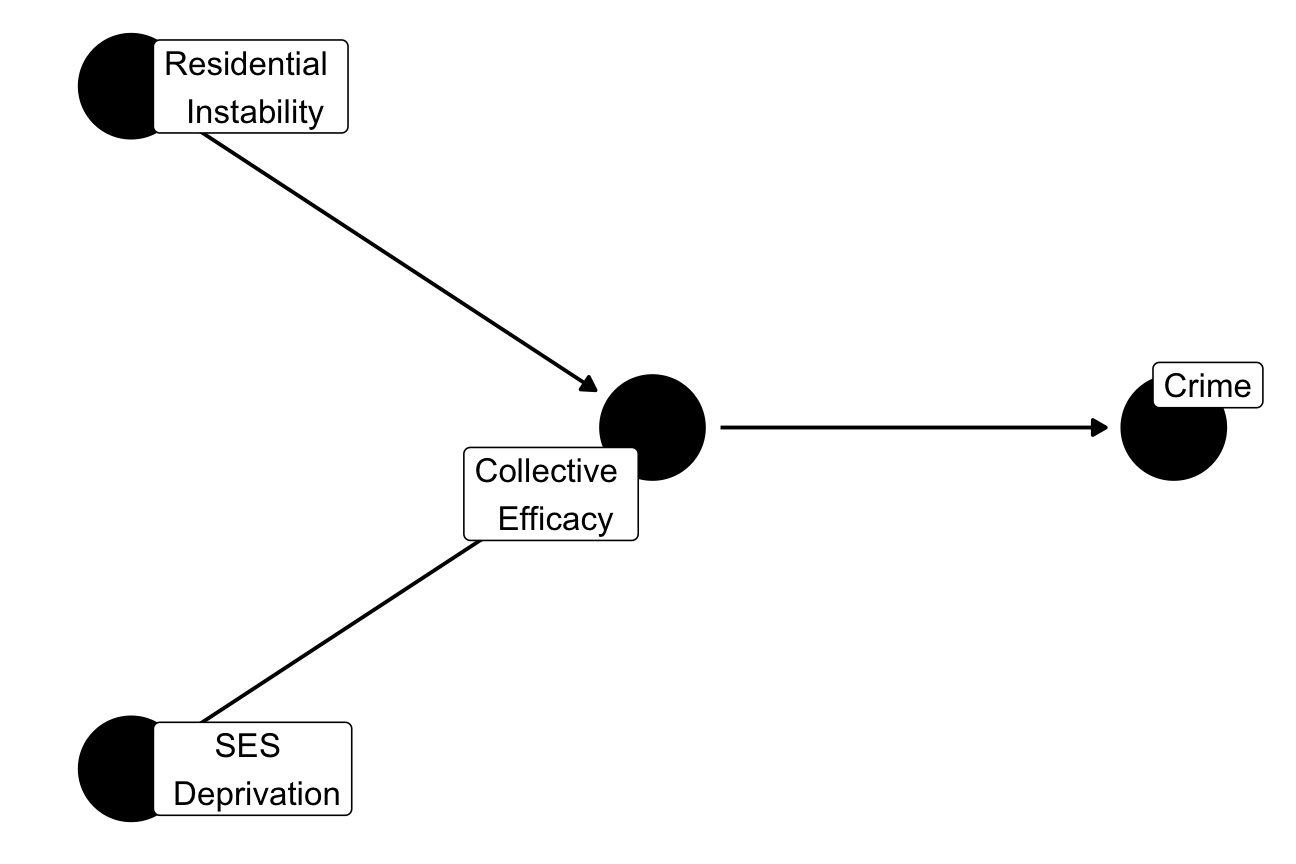
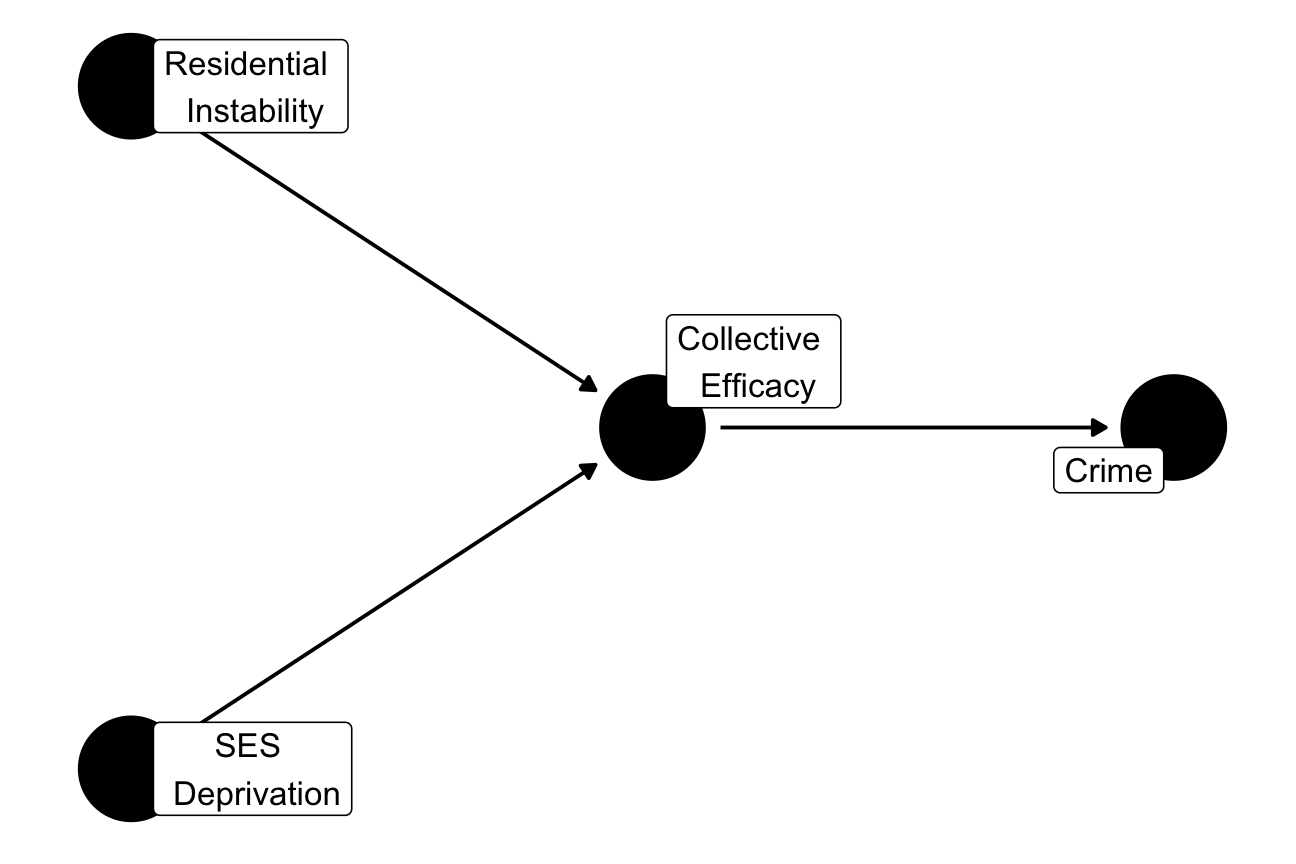
Session neighborhood effects

diff --git a/static/Sessions/8-Neighborhood-Effects/8-Nbh-effects.html b/static/Sessions/8-Neighborhood-Effects/8-Nbh-effects.html
@@ -4,7 +4,7 @@
     <title>Neighborhood effects</title>
     <meta charset="utf-8" />
     <meta name="author" content="Merlin Schaeffer  Department of Sociology" />
-    <meta name="date" content="2022-09-12" />
+    <meta name="date" content="2022-09-27" />
     <script src="libs/header-attrs/header-attrs.js"></script>
     <link href="libs/tile-view/tile-view.css" rel="stylesheet" />
     <script src="libs/tile-view/tile-view.js"></script>
@@ -35,7 +35,7 @@ class: center, middle, inverse, title-slide
 ### Merlin Schaeffer<br> Department of Sociology
 ]
 .date[
-### 2022-09-12
+### 2022-09-27
 ]
 
 ---
@@ -43,24 +43,18 @@ class: center, middle, inverse, title-slide
 
 
 class: clear
-# .font60[What is the research question of Sampson, Raudenbush, and Earls (1997)?]
+# .font70[Why are crime rates high in deprived neighborhoods?]
 
 &lt;img src="8-Nbh-effects_files/figure-html/unnamed-chunk-1-1.png" width="70%" style="display: block; margin: auto;" /&gt;
 
 ---
-layout: true
 # Collective Efficacy
 
 .right-column[
 &lt;img src="8-Nbh-effects_files/figure-html/unnamed-chunk-2-1.png" width="100%" style="display: block; margin: auto;" /&gt;
 ]
 
----
-
----
 .left-column[
-Research question: Does a lack of Collective Efficacy explain why unstable and deprived areas have higher crime rates?
-
 .content-box-blue[
 Collective Efficacy =
 - Informal social control:
@@ -84,30 +78,12 @@ class: clear
 versus 
 
 Context Effects]]
-
-.content-box-green[
-What distinguishes a context from a composition effect?
-]
 ]
 
 .right-column[
-<div id="htmlwidget-e5d0fe5bfd904aff0624" style="width:50%;height:504px;" class="plotly html-widget"></div>
-<script type="application/json" data-for="htmlwidget-e5d0fe5bfd904aff0624">{"x":{"visdat":{"27f92aeb144c":["function () ","plotlyVisDat"],"27f92f819f97":["function () ","data"],"27f967148ade":["function () ","data"]},"cur_data":"27f967148ade","attrs":{"27f92f819f97":{"x":{},"y":{},"frame":{},"alpha_stroke":1,"sizes":[10,100],"spans":[1,20],"type":"scatter","mode":"markers","color":{},"showlegend":false,"marker":{"opacity":0.7,"size":12,"showlegend":false,"type":"scatter","mode":"markers","colorscale":[["0","#7570b3"],[1,"#1b9e77"]]},"inherit":true},"27f967148ade":{"x":{},"y":{},"frame":{},"alpha_stroke":1,"sizes":[10,100],"spans":[1,20],"text":"Y.","type":"scatter","mode":"text","showlegend":false,"marker":{"opacity":0.4,"size":25,"showlegend":false,"color":"#d95f02"},"inherit":true}},"layout":{"width":800,"height":600,"margin":{"b":50,"l":110,"t":50,"r":50,"pad":14},"xaxis":{"domain":[0,1],"automargin":true,"showlegend":false,"title":"","zeroline":false,"showline":false,"range":[0,4],"ticktext":["Neighborhood 1","Neighborhood 2"],"tickvals":[1,3]},"yaxis":{"domain":[0,1],"automargin":true,"title":"Violent crime","ticktext":["Regularly","Sometimes","Rarely","Never"],"tickvals":[1,2,3,4],"range":[0,5],"tickmode":"array"},"hovermode":"closest","showlegend":false,"sliders":[{"currentvalue":{"prefix":"f: ","xanchor":"right","font":{"size":16,"color":"rgba(204,204,204,1)"}},"steps":[{"method":"animate","args":[["1"],{"transition":{"duration":2500,"easing":"elastic"},"frame":{"duration":2500,"redraw":false},"mode":"immediate"}],"label":"1","value":"1"},{"method":"animate","args":[["2"],{"transition":{"duration":2500,"easing":"elastic"},"frame":{"duration":2500,"redraw":false},"mode":"immediate"}],"label":"2","value":"2"},{"method":"animate","args":[["3"],{"transition":{"duration":2500,"easing":"elastic"},"frame":{"duration":2500,"redraw":false},"mode":"immediate"}],"label":"3","value":"3"},{"method":"animate","args":[["4"],{"transition":{"duration":2500,"easing":"elastic"},"frame":{"duration":2500,"redraw":false},"mode":"immediate"}],"label":"4","value":"4"}],"visible":true,"pad":{"t":40}}],"updatemenus":[{"type":"buttons","direction":"right","showactive":false,"y":0,"x":0,"yanchor":"top","xanchor":"right","pad":{"t":60,"r":5},"buttons":[{"label":"Play","method":"animate","args":[null,{"fromcurrent":true,"mode":"immediate","transition":{"duration":2500,"easing":"elastic"},"frame":{"duration":2500,"redraw":false}}]}]}]},"source":"A","config":{"modeBarButtonsToAdd":["hoverclosest","hovercompare"],"showSendToCloud":false},"data":[{"x":[1.03736703872467,1.26967110026135,0.893694237816937,0.855642527760211,0.949206291864296,0.991561579302422,0.990716089735659,0.893397787674812,0.921530453515081,0.809581897697967,1.21325285144489,1.17535706853017,0.836455458900621,1.00244831195993,0.820912370546618,1.01265502953909,0.638266863244202,0.865494528665082,0.958488518217308,1.17104240045505],"y":[0.916379036109823,0.703969631557032,0.722852796036957,0.53752821471865,0.953145089501039,0.797559352031066,0.711860263798452,0.871909024298464,0.723229877670557,0.826578332604983,2.22323851045785,2.18151843342787,2.4078544628636,2.17771179375986,2.36327918178319,2.28272545713974,2.13600605974317,2.1898542047548,2.11825231877282,2.3157231795379],"frame":"1","type":"scatter","mode":"markers","showlegend":false,"marker":{"colorbar":{"title":"work","ticklen":2},"cmin":1,"cmax":2,"colorscale":[["0","#7570b3"],[1,"#1b9e77"]],"showscale":false,"color":[1,1,1,1,1,1,1,1,1,1,2,2,2,2,2,2,2,2,2,2],"opacity":0.7,"size":12,"showlegend":false,"type":"scatter","mode":"markers","line":{"colorbar":{"title":"","ticklen":2},"cmin":1,"cmax":2,"colorscale":[["0","rgba(68,1,84,1)"],["0.0416666666666667","rgba(70,19,97,1)"],["0.0833333333333333","rgba(72,32,111,1)"],["0.125","rgba(71,45,122,1)"],["0.166666666666667","rgba(68,58,128,1)"],["0.208333333333333","rgba(64,70,135,1)"],["0.25","rgba(60,82,138,1)"],["0.291666666666667","rgba(56,93,140,1)"],["0.333333333333333","rgba(49,104,142,1)"],["0.375","rgba(46,114,142,1)"],["0.416666666666667","rgba(42,123,142,1)"],["0.458333333333333","rgba(38,133,141,1)"],["0.5","rgba(37,144,140,1)"],["0.541666666666667","rgba(33,154,138,1)"],["0.583333333333333","rgba(39,164,133,1)"],["0.625","rgba(47,174,127,1)"],["0.666666666666667","rgba(53,183,121,1)"],["0.708333333333333","rgba(79,191,110,1)"],["0.75","rgba(98,199,98,1)"],["0.791666666666667","rgba(119,207,85,1)"],["0.833333333333333","rgba(147,214,70,1)"],["0.875","rgba(172,220,52,1)"],["0.916666666666667","rgba(199,225,42,1)"],["0.958333333333333","rgba(226,228,40,1)"],["1","rgba(253,231,37,1)"]],"showscale":false,"color":[1,1,1,1,1,1,1,1,1,1,2,2,2,2,2,2,2,2,2,2]}},"xaxis":"x","yaxis":"y","visible":true},{"x":[1],"y":[1.50805876102839],"frame":"1","text":"Y.","type":"scatter","mode":"text+markers","showlegend":false,"marker":{"color":"#d95f02","opacity":0.4,"size":25,"showlegend":false,"line":{"color":"rgba(255,127,14,1)"},"showscale":false},"error_y":{"color":"rgba(255,127,14,1)"},"error_x":{"color":"rgba(255,127,14,1)"},"line":{"color":"rgba(255,127,14,1)"},"xaxis":"x","yaxis":"y","visible":true},{"x":[0.638266863244202,3.24793485091484],"y":[0.53752821471865,4.25038346004904],"type":"scatter","mode":"markers","opacity":0,"hoverinfo":"none","showlegend":false,"marker":{"colorbar":{"title":"work","ticklen":2},"cmin":1,"cmax":2,"colorscale":[["0","rgba(68,1,84,1)"],["0.0416666666666667","rgba(70,19,97,1)"],["0.0833333333333333","rgba(72,32,111,1)"],["0.125","rgba(71,45,122,1)"],["0.166666666666667","rgba(68,58,128,1)"],["0.208333333333333","rgba(64,70,135,1)"],["0.25","rgba(60,82,138,1)"],["0.291666666666667","rgba(56,93,140,1)"],["0.333333333333333","rgba(49,104,142,1)"],["0.375","rgba(46,114,142,1)"],["0.416666666666667","rgba(42,123,142,1)"],["0.458333333333333","rgba(38,133,141,1)"],["0.5","rgba(37,144,140,1)"],["0.541666666666667","rgba(33,154,138,1)"],["0.583333333333333","rgba(39,164,133,1)"],["0.625","rgba(47,174,127,1)"],["0.666666666666667","rgba(53,183,121,1)"],["0.708333333333333","rgba(79,191,110,1)"],["0.75","rgba(98,199,98,1)"],["0.791666666666667","rgba(119,207,85,1)"],["0.833333333333333","rgba(147,214,70,1)"],["0.875","rgba(172,220,52,1)"],["0.916666666666667","rgba(199,225,42,1)"],["0.958333333333333","rgba(226,228,40,1)"],["1","rgba(253,231,37,1)"]],"showscale":false,"color":[1,2],"line":{"color":"rgba(44,160,44,1)"}},"xaxis":"x","yaxis":"y","frame":null}],"highlight":{"on":"plotly_click","persistent":false,"dynamic":false,"selectize":false,"opacityDim":0.2,"selected":{"opacity":1},"debounce":0},"frames":[{"name":"1","data":[{"x":[1.03736703872467,1.26967110026135,0.893694237816937,0.855642527760211,0.949206291864296,0.991561579302422,0.990716089735659,0.893397787674812,0.921530453515081,0.809581897697967,1.21325285144489,1.17535706853017,0.836455458900621,1.00244831195993,0.820912370546618,1.01265502953909,0.638266863244202,0.865494528665082,0.958488518217308,1.17104240045505],"y":[0.916379036109823,0.703969631557032,0.722852796036957,0.53752821471865,0.953145089501039,0.797559352031066,0.711860263798452,0.871909024298464,0.723229877670557,0.826578332604983,2.22323851045785,2.18151843342787,2.4078544628636,2.17771179375986,2.36327918178319,2.28272545713974,2.13600605974317,2.1898542047548,2.11825231877282,2.3157231795379],"frame":"1","type":"scatter","mode":"markers","showlegend":false,"marker":{"colorbar":{"title":"work","ticklen":2},"cmin":1,"cmax":2,"colorscale":[["0","#7570b3"],[1,"#1b9e77"]],"showscale":false,"color":[1,1,1,1,1,1,1,1,1,1,2,2,2,2,2,2,2,2,2,2],"opacity":0.7,"size":12,"showlegend":false,"type":"scatter","mode":"markers","line":{"colorbar":{"title":"","ticklen":2},"cmin":1,"cmax":2,"colorscale":[["0","rgba(68,1,84,1)"],["0.0416666666666667","rgba(70,19,97,1)"],["0.0833333333333333","rgba(72,32,111,1)"],["0.125","rgba(71,45,122,1)"],["0.166666666666667","rgba(68,58,128,1)"],["0.208333333333333","rgba(64,70,135,1)"],["0.25","rgba(60,82,138,1)"],["0.291666666666667","rgba(56,93,140,1)"],["0.333333333333333","rgba(49,104,142,1)"],["0.375","rgba(46,114,142,1)"],["0.416666666666667","rgba(42,123,142,1)"],["0.458333333333333","rgba(38,133,141,1)"],["0.5","rgba(37,144,140,1)"],["0.541666666666667","rgba(33,154,138,1)"],["0.583333333333333","rgba(39,164,133,1)"],["0.625","rgba(47,174,127,1)"],["0.666666666666667","rgba(53,183,121,1)"],["0.708333333333333","rgba(79,191,110,1)"],["0.75","rgba(98,199,98,1)"],["0.791666666666667","rgba(119,207,85,1)"],["0.833333333333333","rgba(147,214,70,1)"],["0.875","rgba(172,220,52,1)"],["0.916666666666667","rgba(199,225,42,1)"],["0.958333333333333","rgba(226,228,40,1)"],["1","rgba(253,231,37,1)"]],"showscale":false,"color":[1,1,1,1,1,1,1,1,1,1,2,2,2,2,2,2,2,2,2,2]}},"xaxis":"x","yaxis":"y","visible":true},{"x":[1],"y":[1.50805876102839],"frame":"1","text":"Y.","type":"scatter","mode":"text+markers","showlegend":false,"marker":{"color":"#d95f02","opacity":0.4,"size":25,"showlegend":false,"line":{"color":"rgba(255,127,14,1)"}},"error_y":{"color":"rgba(255,127,14,1)"},"error_x":{"color":"rgba(255,127,14,1)"},"line":{"color":"rgba(255,127,14,1)"},"xaxis":"x","yaxis":"y","visible":true}],"traces":[0,1]},{"name":"2","data":[{"x":[1.03736703872467,1.26967110026135,0.893694237816937,0.855642527760211,0.949206291864296,0.991561579302422,0.990716089735659,0.893397787674812,0.921530453515081,0.809581897697967,1.21325285144489,1.17535706853017,0.836455458900621,1.00244831195993,0.820912370546618,1.01265502953909,0.638266863244202,0.865494528665082,0.958488518217308,1.17104240045505],"y":[0.916379036109823,0.703969631557032,0.722852796036957,0.53752821471865,2.35314508950104,2.19755935203107,2.11186026379845,2.27190902429846,2.12322987767056,2.22657833260498,2.22323851045785,2.18151843342787,2.4078544628636,2.17771179375986,2.36327918178319,2.28272545713974,2.13600605974317,2.1898542047548,2.11825231877282,2.3157231795379],"frame":"2","type":"scatter","mode":"markers","showlegend":false,"marker":{"colorbar":{"title":"work","ticklen":2},"cmin":1,"cmax":2,"colorscale":[["0","#7570b3"],[1,"#1b9e77"]],"showscale":false,"color":[1,1,1,1,2,2,2,2,2,2,2,2,2,2,2,2,2,2,2,2],"opacity":0.7,"size":12,"showlegend":false,"type":"scatter","mode":"markers","line":{"colorbar":{"title":"","ticklen":2},"cmin":1,"cmax":2,"colorscale":[["0","rgba(68,1,84,1)"],["0.0416666666666667","rgba(70,19,97,1)"],["0.0833333333333333","rgba(72,32,111,1)"],["0.125","rgba(71,45,122,1)"],["0.166666666666667","rgba(68,58,128,1)"],["0.208333333333333","rgba(64,70,135,1)"],["0.25","rgba(60,82,138,1)"],["0.291666666666667","rgba(56,93,140,1)"],["0.333333333333333","rgba(49,104,142,1)"],["0.375","rgba(46,114,142,1)"],["0.416666666666667","rgba(42,123,142,1)"],["0.458333333333333","rgba(38,133,141,1)"],["0.5","rgba(37,144,140,1)"],["0.541666666666667","rgba(33,154,138,1)"],["0.583333333333333","rgba(39,164,133,1)"],["0.625","rgba(47,174,127,1)"],["0.666666666666667","rgba(53,183,121,1)"],["0.708333333333333","rgba(79,191,110,1)"],["0.75","rgba(98,199,98,1)"],["0.791666666666667","rgba(119,207,85,1)"],["0.833333333333333","rgba(147,214,70,1)"],["0.875","rgba(172,220,52,1)"],["0.916666666666667","rgba(199,225,42,1)"],["0.958333333333333","rgba(226,228,40,1)"],["1","rgba(253,231,37,1)"]],"showscale":false,"color":[1,1,1,1,2,2,2,2,2,2,2,2,2,2,2,2,2,2,2,2]}},"xaxis":"x","yaxis":"y","visible":true},{"x":[1],"y":[1.92805876102839],"frame":"2","text":"Y.","type":"scatter","mode":"text+markers","showlegend":false,"marker":{"color":"#d95f02","opacity":0.4,"size":25,"showlegend":false,"line":{"color":"rgba(255,127,14,1)"}},"error_y":{"color":"rgba(255,127,14,1)"},"error_x":{"color":"rgba(255,127,14,1)"},"line":{"color":"rgba(255,127,14,1)"},"xaxis":"x","yaxis":"y","visible":true}],"traces":[0,1]},{"name":"3","data":[{"x":[1.03736703872467,1.26967110026135,0.893694237816937,0.855642527760211,0.949206291864296,0.991561579302422,0.990716089735659,0.893397787674812,0.921530453515081,0.809581897697967,1.21325285144489,1.17535706853017,0.836455458900621,1.00244831195993,0.820912370546618,1.01265502953909,0.638266863244202,0.865494528665082,0.958488518217308,1.17104240045505,3.06823257286448,2.9298575069774,3.24793485091484,3.00152039750711,2.87363789142496,2.95244700378619,2.70605423820583,2.71767938318065,3.15236948597474,3.07760912315799,3.1704117225552,3.15981860754573,2.96364567853628,3.10095262959947,3.13411097689352,2.98157460584621,2.738668215747,2.9771898417197,3.12501208107472,3.04821319045656],"y":[0.916379036109823,0.703969631557032,0.722852796036957,0.53752821471865,2.35314508950104,2.19755935203107,2.11186026379845,2.27190902429846,2.12322987767056,2.22657833260498,2.22323851045785,2.18151843342787,2.4078544628636,2.17771179375986,2.36327918178319,2.28272545713974,2.13600605974317,2.1898542047548,2.11825231877282,2.3157231795379,2.74436765600553,2.6312340840588,2.47249940318266,2.35379929727019,4.04679508947537,3.84982332571895,3.90007618320083,4.12434130696934,3.73869196854703,4.01062009083368,4.0837522832023,3.80640432771016,4.20904111732465,3.92790409779416,4.22406463939938,4.25038346004904,3.76462223924413,4.02830470180983,3.88386249918308,4.05715547241195],"frame":"3","type":"scatter","mode":"markers","showlegend":false,"marker":{"colorbar":{"title":"work","ticklen":2},"cmin":1,"cmax":2,"colorscale":[["0","#7570b3"],[1,"#1b9e77"]],"showscale":false,"color":[1,1,1,1,2,2,2,2,2,2,2,2,2,2,2,2,2,2,2,2,1,1,1,1,2,2,2,2,2,2,2,2,2,2,2,2,2,2,2,2],"opacity":0.7,"size":12,"showlegend":false,"type":"scatter","mode":"markers","line":{"colorbar":{"title":"","ticklen":2},"cmin":1,"cmax":2,"colorscale":[["0","rgba(68,1,84,1)"],["0.0416666666666667","rgba(70,19,97,1)"],["0.0833333333333333","rgba(72,32,111,1)"],["0.125","rgba(71,45,122,1)"],["0.166666666666667","rgba(68,58,128,1)"],["0.208333333333333","rgba(64,70,135,1)"],["0.25","rgba(60,82,138,1)"],["0.291666666666667","rgba(56,93,140,1)"],["0.333333333333333","rgba(49,104,142,1)"],["0.375","rgba(46,114,142,1)"],["0.416666666666667","rgba(42,123,142,1)"],["0.458333333333333","rgba(38,133,141,1)"],["0.5","rgba(37,144,140,1)"],["0.541666666666667","rgba(33,154,138,1)"],["0.583333333333333","rgba(39,164,133,1)"],["0.625","rgba(47,174,127,1)"],["0.666666666666667","rgba(53,183,121,1)"],["0.708333333333333","rgba(79,191,110,1)"],["0.75","rgba(98,199,98,1)"],["0.791666666666667","rgba(119,207,85,1)"],["0.833333333333333","rgba(147,214,70,1)"],["0.875","rgba(172,220,52,1)"],["0.916666666666667","rgba(199,225,42,1)"],["0.958333333333333","rgba(226,228,40,1)"],["1","rgba(253,231,37,1)"]],"showscale":false,"color":[1,1,1,1,2,2,2,2,2,2,2,2,2,2,2,2,2,2,2,2,1,1,1,1,2,2,2,2,2,2,2,2,2,2,2,2,2,2,2,2]}},"xaxis":"x","yaxis":"y","visible":true},{"x":[1,3],"y":[1.92805876102839,3.70538716216955],"frame":"3","text":["Y.","Y."],"type":"scatter","mode":"text+markers","showlegend":false,"marker":{"color":"#d95f02","opacity":0.4,"size":25,"showlegend":false,"line":{"color":"rgba(255,127,14,1)"}},"error_y":{"color":"rgba(255,127,14,1)"},"error_x":{"color":"rgba(255,127,14,1)"},"line":{"color":"rgba(255,127,14,1)"},"xaxis":"x","yaxis":"y","visible":true}],"traces":[0,1]},{"name":"4","data":[{"x":[1.03736703872467,1.26967110026135,0.893694237816937,0.855642527760211,0.949206291864296,0.991561579302422,0.990716089735659,0.893397787674812,0.921530453515081,0.809581897697967,1.21325285144489,1.17535706853017,0.836455458900621,1.00244831195993,0.820912370546618,1.01265502953909,0.638266863244202,0.865494528665082,0.958488518217308,1.17104240045505,3.06823257286448,2.9298575069774,3.24793485091484,3.00152039750711,2.87363789142496,2.95244700378619,2.70605423820583,2.71767938318065,3.15236948597474,3.07760912315799,3.1704117225552,3.15981860754573,2.96364567853628,3.10095262959947,3.13411097689352,2.98157460584621,2.738668215747,2.9771898417197,3.12501208107472,3.04821319045656],"y":[0.916379036109823,0.703969631557032,0.722852796036957,0.53752821471865,0.953145089501039,0.797559352031066,0.711860263798452,0.871909024298464,0.723229877670557,0.826578332604983,2.22323851045785,2.18151843342787,2.4078544628636,2.17771179375986,2.36327918178319,2.28272545713974,2.13600605974317,2.1898542047548,2.11825231877282,2.3157231795379,2.74436765600553,2.6312340840588,2.47249940318266,2.35379929727019,2.64679508947537,2.44982332571895,2.50007618320083,2.72434130696934,2.33869196854703,2.61062009083368,4.0837522832023,3.80640432771016,4.20904111732465,3.92790409779416,4.22406463939938,4.25038346004904,3.76462223924413,4.02830470180983,3.88386249918308,4.05715547241195],"frame":"4","type":"scatter","mode":"markers","showlegend":false,"marker":{"colorbar":{"title":"work","ticklen":2},"cmin":1,"cmax":2,"colorscale":[["0","#7570b3"],[1,"#1b9e77"]],"showscale":false,"color":[1,1,1,1,1,1,1,1,1,1,2,2,2,2,2,2,2,2,2,2,1,1,1,1,1,1,1,1,1,1,2,2,2,2,2,2,2,2,2,2],"opacity":0.7,"size":12,"showlegend":false,"type":"scatter","mode":"markers","line":{"colorbar":{"title":"","ticklen":2},"cmin":1,"cmax":2,"colorscale":[["0","rgba(68,1,84,1)"],["0.0416666666666667","rgba(70,19,97,1)"],["0.0833333333333333","rgba(72,32,111,1)"],["0.125","rgba(71,45,122,1)"],["0.166666666666667","rgba(68,58,128,1)"],["0.208333333333333","rgba(64,70,135,1)"],["0.25","rgba(60,82,138,1)"],["0.291666666666667","rgba(56,93,140,1)"],["0.333333333333333","rgba(49,104,142,1)"],["0.375","rgba(46,114,142,1)"],["0.416666666666667","rgba(42,123,142,1)"],["0.458333333333333","rgba(38,133,141,1)"],["0.5","rgba(37,144,140,1)"],["0.541666666666667","rgba(33,154,138,1)"],["0.583333333333333","rgba(39,164,133,1)"],["0.625","rgba(47,174,127,1)"],["0.666666666666667","rgba(53,183,121,1)"],["0.708333333333333","rgba(79,191,110,1)"],["0.75","rgba(98,199,98,1)"],["0.791666666666667","rgba(119,207,85,1)"],["0.833333333333333","rgba(147,214,70,1)"],["0.875","rgba(172,220,52,1)"],["0.916666666666667","rgba(199,225,42,1)"],["0.958333333333333","rgba(226,228,40,1)"],["1","rgba(253,231,37,1)"]],"showscale":false,"color":[1,1,1,1,1,1,1,1,1,1,2,2,2,2,2,2,2,2,2,2,1,1,1,1,1,1,1,1,1,1,2,2,2,2,2,2,2,2,2,2]}},"xaxis":"x","yaxis":"y","visible":true},{"x":[1,3],"y":[1.50805876102839,3.28538716216955],"frame":"4","text":["Y.","Y."],"type":"scatter","mode":"text+markers","showlegend":false,"marker":{"color":"#d95f02","opacity":0.4,"size":25,"showlegend":false,"line":{"color":"rgba(255,127,14,1)"}},"error_y":{"color":"rgba(255,127,14,1)"},"error_x":{"color":"rgba(255,127,14,1)"},"line":{"color":"rgba(255,127,14,1)"},"xaxis":"x","yaxis":"y","visible":true}],"traces":[0,1]}],"shinyEvents":["plotly_hover","plotly_click","plotly_selected","plotly_relayout","plotly_brushed","plotly_brushing","plotly_clickannotation","plotly_doubleclick","plotly_deselect","plotly_afterplot","plotly_sunburstclick"],"base_url":"https://plot.ly"},"evals":[],"jsHooks":[]}</script>
-]
-
----
-# Examples
-
-.push-left[
-.content-box-green[
-Consider Composition and Context Effects for the following hypotheses with your neighbor:
-- H1: The more elderly residents live in a neighborhood, the fewer house parties.
-- H2: The more house owners live in a neighborhood, the lower the crime rate.
-- H3: Come up with an exemplary hypothesis of your own.
-]]
-
-.push-right[
-&lt;img src="https://c.tenor.com/ZH8sBDd1cZwAAAAM/parrrrty-party.gif" width="100%" style="display: block; margin: auto;" /&gt;
+&lt;br&gt;
+<div id="htmlwidget-15982604415764b7e4e7" style="width:50%;height:504px;" class="plotly html-widget"></div>
+<script type="application/json" data-for="htmlwidget-15982604415764b7e4e7">{"x":{"visdat":{"7ae43e345fc":["function () ","plotlyVisDat"],"7ae7e07c635":["function () ","data"],"7ae30660237":["function () ","data"]},"cur_data":"7ae30660237","attrs":{"7ae7e07c635":{"x":{},"y":{},"frame":{},"alpha_stroke":1,"sizes":[10,100],"spans":[1,20],"type":"scatter","mode":"markers","color":{},"showlegend":false,"marker":{"opacity":0.7,"size":12,"showlegend":false,"type":"scatter","mode":"markers","colorscale":[["0","#7570b3"],[1,"#1b9e77"]]},"inherit":true},"7ae30660237":{"x":{},"y":{},"frame":{},"alpha_stroke":1,"sizes":[10,100],"spans":[1,20],"text":"Y.","type":"scatter","mode":"text","showlegend":false,"marker":{"opacity":0.4,"size":25,"showlegend":false,"color":"#d95f02"},"inherit":true}},"layout":{"width":800,"height":600,"margin":{"b":50,"l":110,"t":50,"r":50,"pad":14},"xaxis":{"domain":[0,1],"automargin":true,"showlegend":false,"title":"","zeroline":false,"showline":false,"range":[0,4],"ticktext":["Neighborhood 1","Neighborhood 2"],"tickvals":[1,3]},"yaxis":{"domain":[0,1],"automargin":true,"title":"Violent crime","ticktext":["Regularly","Sometimes","Rarely","Never"],"tickvals":[1,2,3,4],"range":[0,5],"tickmode":"array"},"hovermode":"closest","showlegend":false,"sliders":[{"currentvalue":{"prefix":"f: ","xanchor":"right","font":{"size":16,"color":"rgba(204,204,204,1)"}},"steps":[{"method":"animate","args":[["1"],{"transition":{"duration":2500,"easing":"elastic"},"frame":{"duration":2500,"redraw":false},"mode":"immediate"}],"label":"1","value":"1"},{"method":"animate","args":[["2"],{"transition":{"duration":2500,"easing":"elastic"},"frame":{"duration":2500,"redraw":false},"mode":"immediate"}],"label":"2","value":"2"},{"method":"animate","args":[["3"],{"transition":{"duration":2500,"easing":"elastic"},"frame":{"duration":2500,"redraw":false},"mode":"immediate"}],"label":"3","value":"3"},{"method":"animate","args":[["4"],{"transition":{"duration":2500,"easing":"elastic"},"frame":{"duration":2500,"redraw":false},"mode":"immediate"}],"label":"4","value":"4"}],"visible":true,"pad":{"t":40}}],"updatemenus":[{"type":"buttons","direction":"right","showactive":false,"y":0,"x":0,"yanchor":"top","xanchor":"right","pad":{"t":60,"r":5},"buttons":[{"label":"Play","method":"animate","args":[null,{"fromcurrent":true,"mode":"immediate","transition":{"duration":2500,"easing":"elastic"},"frame":{"duration":2500,"redraw":false}}]}]}]},"source":"A","config":{"modeBarButtonsToAdd":["hoverclosest","hovercompare"],"showSendToCloud":false},"data":[{"x":[1.03736703872467,1.26967110026135,0.893694237816937,0.855642527760211,0.949206291864296,0.991561579302422,0.990716089735659,0.893397787674812,0.921530453515081,0.809581897697967,1.21325285144489,1.17535706853017,0.836455458900621,1.00244831195993,0.820912370546618,1.01265502953909,0.638266863244202,0.865494528665082,0.958488518217308,1.17104240045505],"y":[0.916379036109823,0.703969631557032,0.722852796036957,0.53752821471865,0.953145089501039,0.797559352031066,0.711860263798452,0.871909024298464,0.723229877670557,0.826578332604983,2.22323851045785,2.18151843342787,2.4078544628636,2.17771179375986,2.36327918178319,2.28272545713974,2.13600605974317,2.1898542047548,2.11825231877282,2.3157231795379],"frame":"1","type":"scatter","mode":"markers","showlegend":false,"marker":{"colorbar":{"title":"work","ticklen":2},"cmin":1,"cmax":2,"colorscale":[["0","#7570b3"],[1,"#1b9e77"]],"showscale":false,"color":[1,1,1,1,1,1,1,1,1,1,2,2,2,2,2,2,2,2,2,2],"opacity":0.7,"size":12,"showlegend":false,"type":"scatter","mode":"markers","line":{"colorbar":{"title":"","ticklen":2},"cmin":1,"cmax":2,"colorscale":[["0","rgba(68,1,84,1)"],["0.0416666666666667","rgba(70,19,97,1)"],["0.0833333333333333","rgba(72,32,111,1)"],["0.125","rgba(71,45,122,1)"],["0.166666666666667","rgba(68,58,128,1)"],["0.208333333333333","rgba(64,70,135,1)"],["0.25","rgba(60,82,138,1)"],["0.291666666666667","rgba(56,93,140,1)"],["0.333333333333333","rgba(49,104,142,1)"],["0.375","rgba(46,114,142,1)"],["0.416666666666667","rgba(42,123,142,1)"],["0.458333333333333","rgba(38,133,141,1)"],["0.5","rgba(37,144,140,1)"],["0.541666666666667","rgba(33,154,138,1)"],["0.583333333333333","rgba(39,164,133,1)"],["0.625","rgba(47,174,127,1)"],["0.666666666666667","rgba(53,183,121,1)"],["0.708333333333333","rgba(79,191,110,1)"],["0.75","rgba(98,199,98,1)"],["0.791666666666667","rgba(119,207,85,1)"],["0.833333333333333","rgba(147,214,70,1)"],["0.875","rgba(172,220,52,1)"],["0.916666666666667","rgba(199,225,42,1)"],["0.958333333333333","rgba(226,228,40,1)"],["1","rgba(253,231,37,1)"]],"showscale":false,"color":[1,1,1,1,1,1,1,1,1,1,2,2,2,2,2,2,2,2,2,2]}},"xaxis":"x","yaxis":"y","visible":true},{"x":[1],"y":[1.50805876102839],"frame":"1","text":"Y.","type":"scatter","mode":"text+markers","showlegend":false,"marker":{"color":"#d95f02","opacity":0.4,"size":25,"showlegend":false,"line":{"color":"rgba(255,127,14,1)"},"showscale":false},"error_y":{"color":"rgba(255,127,14,1)"},"error_x":{"color":"rgba(255,127,14,1)"},"line":{"color":"rgba(255,127,14,1)"},"xaxis":"x","yaxis":"y","visible":true},{"x":[0.638266863244202,3.24793485091484],"y":[0.53752821471865,4.25038346004904],"type":"scatter","mode":"markers","opacity":0,"hoverinfo":"none","showlegend":false,"marker":{"colorbar":{"title":"work","ticklen":2},"cmin":1,"cmax":2,"colorscale":[["0","rgba(68,1,84,1)"],["0.0416666666666667","rgba(70,19,97,1)"],["0.0833333333333333","rgba(72,32,111,1)"],["0.125","rgba(71,45,122,1)"],["0.166666666666667","rgba(68,58,128,1)"],["0.208333333333333","rgba(64,70,135,1)"],["0.25","rgba(60,82,138,1)"],["0.291666666666667","rgba(56,93,140,1)"],["0.333333333333333","rgba(49,104,142,1)"],["0.375","rgba(46,114,142,1)"],["0.416666666666667","rgba(42,123,142,1)"],["0.458333333333333","rgba(38,133,141,1)"],["0.5","rgba(37,144,140,1)"],["0.541666666666667","rgba(33,154,138,1)"],["0.583333333333333","rgba(39,164,133,1)"],["0.625","rgba(47,174,127,1)"],["0.666666666666667","rgba(53,183,121,1)"],["0.708333333333333","rgba(79,191,110,1)"],["0.75","rgba(98,199,98,1)"],["0.791666666666667","rgba(119,207,85,1)"],["0.833333333333333","rgba(147,214,70,1)"],["0.875","rgba(172,220,52,1)"],["0.916666666666667","rgba(199,225,42,1)"],["0.958333333333333","rgba(226,228,40,1)"],["1","rgba(253,231,37,1)"]],"showscale":false,"color":[1,2],"line":{"color":"rgba(44,160,44,1)"}},"xaxis":"x","yaxis":"y","frame":null}],"highlight":{"on":"plotly_click","persistent":false,"dynamic":false,"selectize":false,"opacityDim":0.2,"selected":{"opacity":1},"debounce":0},"frames":[{"name":"1","data":[{"x":[1.03736703872467,1.26967110026135,0.893694237816937,0.855642527760211,0.949206291864296,0.991561579302422,0.990716089735659,0.893397787674812,0.921530453515081,0.809581897697967,1.21325285144489,1.17535706853017,0.836455458900621,1.00244831195993,0.820912370546618,1.01265502953909,0.638266863244202,0.865494528665082,0.958488518217308,1.17104240045505],"y":[0.916379036109823,0.703969631557032,0.722852796036957,0.53752821471865,0.953145089501039,0.797559352031066,0.711860263798452,0.871909024298464,0.723229877670557,0.826578332604983,2.22323851045785,2.18151843342787,2.4078544628636,2.17771179375986,2.36327918178319,2.28272545713974,2.13600605974317,2.1898542047548,2.11825231877282,2.3157231795379],"frame":"1","type":"scatter","mode":"markers","showlegend":false,"marker":{"colorbar":{"title":"work","ticklen":2},"cmin":1,"cmax":2,"colorscale":[["0","#7570b3"],[1,"#1b9e77"]],"showscale":false,"color":[1,1,1,1,1,1,1,1,1,1,2,2,2,2,2,2,2,2,2,2],"opacity":0.7,"size":12,"showlegend":false,"type":"scatter","mode":"markers","line":{"colorbar":{"title":"","ticklen":2},"cmin":1,"cmax":2,"colorscale":[["0","rgba(68,1,84,1)"],["0.0416666666666667","rgba(70,19,97,1)"],["0.0833333333333333","rgba(72,32,111,1)"],["0.125","rgba(71,45,122,1)"],["0.166666666666667","rgba(68,58,128,1)"],["0.208333333333333","rgba(64,70,135,1)"],["0.25","rgba(60,82,138,1)"],["0.291666666666667","rgba(56,93,140,1)"],["0.333333333333333","rgba(49,104,142,1)"],["0.375","rgba(46,114,142,1)"],["0.416666666666667","rgba(42,123,142,1)"],["0.458333333333333","rgba(38,133,141,1)"],["0.5","rgba(37,144,140,1)"],["0.541666666666667","rgba(33,154,138,1)"],["0.583333333333333","rgba(39,164,133,1)"],["0.625","rgba(47,174,127,1)"],["0.666666666666667","rgba(53,183,121,1)"],["0.708333333333333","rgba(79,191,110,1)"],["0.75","rgba(98,199,98,1)"],["0.791666666666667","rgba(119,207,85,1)"],["0.833333333333333","rgba(147,214,70,1)"],["0.875","rgba(172,220,52,1)"],["0.916666666666667","rgba(199,225,42,1)"],["0.958333333333333","rgba(226,228,40,1)"],["1","rgba(253,231,37,1)"]],"showscale":false,"color":[1,1,1,1,1,1,1,1,1,1,2,2,2,2,2,2,2,2,2,2]}},"xaxis":"x","yaxis":"y","visible":true},{"x":[1],"y":[1.50805876102839],"frame":"1","text":"Y.","type":"scatter","mode":"text+markers","showlegend":false,"marker":{"color":"#d95f02","opacity":0.4,"size":25,"showlegend":false,"line":{"color":"rgba(255,127,14,1)"}},"error_y":{"color":"rgba(255,127,14,1)"},"error_x":{"color":"rgba(255,127,14,1)"},"line":{"color":"rgba(255,127,14,1)"},"xaxis":"x","yaxis":"y","visible":true}],"traces":[0,1]},{"name":"2","data":[{"x":[1.03736703872467,1.26967110026135,0.893694237816937,0.855642527760211,0.949206291864296,0.991561579302422,0.990716089735659,0.893397787674812,0.921530453515081,0.809581897697967,1.21325285144489,1.17535706853017,0.836455458900621,1.00244831195993,0.820912370546618,1.01265502953909,0.638266863244202,0.865494528665082,0.958488518217308,1.17104240045505],"y":[0.916379036109823,0.703969631557032,0.722852796036957,0.53752821471865,2.35314508950104,2.19755935203107,2.11186026379845,2.27190902429846,2.12322987767056,2.22657833260498,2.22323851045785,2.18151843342787,2.4078544628636,2.17771179375986,2.36327918178319,2.28272545713974,2.13600605974317,2.1898542047548,2.11825231877282,2.3157231795379],"frame":"2","type":"scatter","mode":"markers","showlegend":false,"marker":{"colorbar":{"title":"work","ticklen":2},"cmin":1,"cmax":2,"colorscale":[["0","#7570b3"],[1,"#1b9e77"]],"showscale":false,"color":[1,1,1,1,2,2,2,2,2,2,2,2,2,2,2,2,2,2,2,2],"opacity":0.7,"size":12,"showlegend":false,"type":"scatter","mode":"markers","line":{"colorbar":{"title":"","ticklen":2},"cmin":1,"cmax":2,"colorscale":[["0","rgba(68,1,84,1)"],["0.0416666666666667","rgba(70,19,97,1)"],["0.0833333333333333","rgba(72,32,111,1)"],["0.125","rgba(71,45,122,1)"],["0.166666666666667","rgba(68,58,128,1)"],["0.208333333333333","rgba(64,70,135,1)"],["0.25","rgba(60,82,138,1)"],["0.291666666666667","rgba(56,93,140,1)"],["0.333333333333333","rgba(49,104,142,1)"],["0.375","rgba(46,114,142,1)"],["0.416666666666667","rgba(42,123,142,1)"],["0.458333333333333","rgba(38,133,141,1)"],["0.5","rgba(37,144,140,1)"],["0.541666666666667","rgba(33,154,138,1)"],["0.583333333333333","rgba(39,164,133,1)"],["0.625","rgba(47,174,127,1)"],["0.666666666666667","rgba(53,183,121,1)"],["0.708333333333333","rgba(79,191,110,1)"],["0.75","rgba(98,199,98,1)"],["0.791666666666667","rgba(119,207,85,1)"],["0.833333333333333","rgba(147,214,70,1)"],["0.875","rgba(172,220,52,1)"],["0.916666666666667","rgba(199,225,42,1)"],["0.958333333333333","rgba(226,228,40,1)"],["1","rgba(253,231,37,1)"]],"showscale":false,"color":[1,1,1,1,2,2,2,2,2,2,2,2,2,2,2,2,2,2,2,2]}},"xaxis":"x","yaxis":"y","visible":true},{"x":[1],"y":[1.92805876102839],"frame":"2","text":"Y.","type":"scatter","mode":"text+markers","showlegend":false,"marker":{"color":"#d95f02","opacity":0.4,"size":25,"showlegend":false,"line":{"color":"rgba(255,127,14,1)"}},"error_y":{"color":"rgba(255,127,14,1)"},"error_x":{"color":"rgba(255,127,14,1)"},"line":{"color":"rgba(255,127,14,1)"},"xaxis":"x","yaxis":"y","visible":true}],"traces":[0,1]},{"name":"3","data":[{"x":[1.03736703872467,1.26967110026135,0.893694237816937,0.855642527760211,0.949206291864296,0.991561579302422,0.990716089735659,0.893397787674812,0.921530453515081,0.809581897697967,1.21325285144489,1.17535706853017,0.836455458900621,1.00244831195993,0.820912370546618,1.01265502953909,0.638266863244202,0.865494528665082,0.958488518217308,1.17104240045505,3.06823257286448,2.9298575069774,3.24793485091484,3.00152039750711,2.87363789142496,2.95244700378619,2.70605423820583,2.71767938318065,3.15236948597474,3.07760912315799,3.1704117225552,3.15981860754573,2.96364567853628,3.10095262959947,3.13411097689352,2.98157460584621,2.738668215747,2.9771898417197,3.12501208107472,3.04821319045656],"y":[0.916379036109823,0.703969631557032,0.722852796036957,0.53752821471865,2.35314508950104,2.19755935203107,2.11186026379845,2.27190902429846,2.12322987767056,2.22657833260498,2.22323851045785,2.18151843342787,2.4078544628636,2.17771179375986,2.36327918178319,2.28272545713974,2.13600605974317,2.1898542047548,2.11825231877282,2.3157231795379,2.74436765600553,2.6312340840588,2.47249940318266,2.35379929727019,4.04679508947537,3.84982332571895,3.90007618320083,4.12434130696934,3.73869196854703,4.01062009083368,4.0837522832023,3.80640432771016,4.20904111732465,3.92790409779416,4.22406463939938,4.25038346004904,3.76462223924413,4.02830470180983,3.88386249918308,4.05715547241195],"frame":"3","type":"scatter","mode":"markers","showlegend":false,"marker":{"colorbar":{"title":"work","ticklen":2},"cmin":1,"cmax":2,"colorscale":[["0","#7570b3"],[1,"#1b9e77"]],"showscale":false,"color":[1,1,1,1,2,2,2,2,2,2,2,2,2,2,2,2,2,2,2,2,1,1,1,1,2,2,2,2,2,2,2,2,2,2,2,2,2,2,2,2],"opacity":0.7,"size":12,"showlegend":false,"type":"scatter","mode":"markers","line":{"colorbar":{"title":"","ticklen":2},"cmin":1,"cmax":2,"colorscale":[["0","rgba(68,1,84,1)"],["0.0416666666666667","rgba(70,19,97,1)"],["0.0833333333333333","rgba(72,32,111,1)"],["0.125","rgba(71,45,122,1)"],["0.166666666666667","rgba(68,58,128,1)"],["0.208333333333333","rgba(64,70,135,1)"],["0.25","rgba(60,82,138,1)"],["0.291666666666667","rgba(56,93,140,1)"],["0.333333333333333","rgba(49,104,142,1)"],["0.375","rgba(46,114,142,1)"],["0.416666666666667","rgba(42,123,142,1)"],["0.458333333333333","rgba(38,133,141,1)"],["0.5","rgba(37,144,140,1)"],["0.541666666666667","rgba(33,154,138,1)"],["0.583333333333333","rgba(39,164,133,1)"],["0.625","rgba(47,174,127,1)"],["0.666666666666667","rgba(53,183,121,1)"],["0.708333333333333","rgba(79,191,110,1)"],["0.75","rgba(98,199,98,1)"],["0.791666666666667","rgba(119,207,85,1)"],["0.833333333333333","rgba(147,214,70,1)"],["0.875","rgba(172,220,52,1)"],["0.916666666666667","rgba(199,225,42,1)"],["0.958333333333333","rgba(226,228,40,1)"],["1","rgba(253,231,37,1)"]],"showscale":false,"color":[1,1,1,1,2,2,2,2,2,2,2,2,2,2,2,2,2,2,2,2,1,1,1,1,2,2,2,2,2,2,2,2,2,2,2,2,2,2,2,2]}},"xaxis":"x","yaxis":"y","visible":true},{"x":[1,3],"y":[1.92805876102839,3.70538716216955],"frame":"3","text":["Y.","Y."],"type":"scatter","mode":"text+markers","showlegend":false,"marker":{"color":"#d95f02","opacity":0.4,"size":25,"showlegend":false,"line":{"color":"rgba(255,127,14,1)"}},"error_y":{"color":"rgba(255,127,14,1)"},"error_x":{"color":"rgba(255,127,14,1)"},"line":{"color":"rgba(255,127,14,1)"},"xaxis":"x","yaxis":"y","visible":true}],"traces":[0,1]},{"name":"4","data":[{"x":[1.03736703872467,1.26967110026135,0.893694237816937,0.855642527760211,0.949206291864296,0.991561579302422,0.990716089735659,0.893397787674812,0.921530453515081,0.809581897697967,1.21325285144489,1.17535706853017,0.836455458900621,1.00244831195993,0.820912370546618,1.01265502953909,0.638266863244202,0.865494528665082,0.958488518217308,1.17104240045505,3.06823257286448,2.9298575069774,3.24793485091484,3.00152039750711,2.87363789142496,2.95244700378619,2.70605423820583,2.71767938318065,3.15236948597474,3.07760912315799,3.1704117225552,3.15981860754573,2.96364567853628,3.10095262959947,3.13411097689352,2.98157460584621,2.738668215747,2.9771898417197,3.12501208107472,3.04821319045656],"y":[0.916379036109823,0.703969631557032,0.722852796036957,0.53752821471865,0.953145089501039,0.797559352031066,0.711860263798452,0.871909024298464,0.723229877670557,0.826578332604983,2.22323851045785,2.18151843342787,2.4078544628636,2.17771179375986,2.36327918178319,2.28272545713974,2.13600605974317,2.1898542047548,2.11825231877282,2.3157231795379,2.74436765600553,2.6312340840588,2.47249940318266,2.35379929727019,2.64679508947537,2.44982332571895,2.50007618320083,2.72434130696934,2.33869196854703,2.61062009083368,4.0837522832023,3.80640432771016,4.20904111732465,3.92790409779416,4.22406463939938,4.25038346004904,3.76462223924413,4.02830470180983,3.88386249918308,4.05715547241195],"frame":"4","type":"scatter","mode":"markers","showlegend":false,"marker":{"colorbar":{"title":"work","ticklen":2},"cmin":1,"cmax":2,"colorscale":[["0","#7570b3"],[1,"#1b9e77"]],"showscale":false,"color":[1,1,1,1,1,1,1,1,1,1,2,2,2,2,2,2,2,2,2,2,1,1,1,1,1,1,1,1,1,1,2,2,2,2,2,2,2,2,2,2],"opacity":0.7,"size":12,"showlegend":false,"type":"scatter","mode":"markers","line":{"colorbar":{"title":"","ticklen":2},"cmin":1,"cmax":2,"colorscale":[["0","rgba(68,1,84,1)"],["0.0416666666666667","rgba(70,19,97,1)"],["0.0833333333333333","rgba(72,32,111,1)"],["0.125","rgba(71,45,122,1)"],["0.166666666666667","rgba(68,58,128,1)"],["0.208333333333333","rgba(64,70,135,1)"],["0.25","rgba(60,82,138,1)"],["0.291666666666667","rgba(56,93,140,1)"],["0.333333333333333","rgba(49,104,142,1)"],["0.375","rgba(46,114,142,1)"],["0.416666666666667","rgba(42,123,142,1)"],["0.458333333333333","rgba(38,133,141,1)"],["0.5","rgba(37,144,140,1)"],["0.541666666666667","rgba(33,154,138,1)"],["0.583333333333333","rgba(39,164,133,1)"],["0.625","rgba(47,174,127,1)"],["0.666666666666667","rgba(53,183,121,1)"],["0.708333333333333","rgba(79,191,110,1)"],["0.75","rgba(98,199,98,1)"],["0.791666666666667","rgba(119,207,85,1)"],["0.833333333333333","rgba(147,214,70,1)"],["0.875","rgba(172,220,52,1)"],["0.916666666666667","rgba(199,225,42,1)"],["0.958333333333333","rgba(226,228,40,1)"],["1","rgba(253,231,37,1)"]],"showscale":false,"color":[1,1,1,1,1,1,1,1,1,1,2,2,2,2,2,2,2,2,2,2,1,1,1,1,1,1,1,1,1,1,2,2,2,2,2,2,2,2,2,2]}},"xaxis":"x","yaxis":"y","visible":true},{"x":[1,3],"y":[1.50805876102839,3.28538716216955],"frame":"4","text":["Y.","Y."],"type":"scatter","mode":"text+markers","showlegend":false,"marker":{"color":"#d95f02","opacity":0.4,"size":25,"showlegend":false,"line":{"color":"rgba(255,127,14,1)"}},"error_y":{"color":"rgba(255,127,14,1)"},"error_x":{"color":"rgba(255,127,14,1)"},"line":{"color":"rgba(255,127,14,1)"},"xaxis":"x","yaxis":"y","visible":true}],"traces":[0,1]}],"shinyEvents":["plotly_hover","plotly_click","plotly_selected","plotly_relayout","plotly_brushed","plotly_brushing","plotly_clickannotation","plotly_doubleclick","plotly_deselect","plotly_afterplot","plotly_sunburstclick"],"base_url":"https://plot.ly"},"evals":[],"jsHooks":[]}</script>
 ]
 
 ---
@@ -133,45 +109,46 @@ Macro level
 ]
 
 .push-right[
-&lt;img src="8-Nbh-effects_files/figure-html/unnamed-chunk-6-1.png" width="100%" style="display: block; margin: auto;" /&gt;
+&lt;img src="8-Nbh-effects_files/figure-html/unnamed-chunk-5-1.png" width="100%" style="display: block; margin: auto;" /&gt;
 ]
 
 ---
 background-image: url('https://www.quartiersmanagement-berlin.de/fileadmin/content-media/Gebietsgalerien/114_Zentrum_KB_Kottbusser_Tor__Cansu_Cakmak_.jpg')
 background-size: cover
-class: center middle
-
-.font150[.center[.alert[**Given all these insights,**&lt;br&gt; **Why are such large-scale modernizations problematic?**]]]
+class: center
+&lt;br&gt;
+.font150[.center[.alert[**Given all these insights,**&lt;br&gt; **Why might large-scale modernization projects be problematic?**]]]
 
 
 ---
 layout: false
 # Group discussion
 
-.push-left[
-.content-box-green[
-Taken as inequality-generating mechanisms, 
-how can Coleman's and Lin's social capital theories help us explain Topic 1-3?
+.left-column[
+&lt;img src="https://www.dynamiclanguage.com/wp-content/uploads/2018/05/nj_vietnamese-american_community_1.jpg" width="80%" style="display: block; margin: auto;" /&gt;&lt;img src="https://marinvietoralhistory.files.wordpress.com/2018/05/img_6729-2.jpg" width="80%" style="display: block; margin: auto;" /&gt;
 ]
 
-&lt;br&gt;
+.right-column[
+&lt;img src="8-Nbh-effects_files/figure-html/DAG1-1.png" width="90%" style="display: block; margin: auto;" /&gt;
 
-Mechanism |  Power | Gender gap | Social mobility 
--------------------|---------|---------|--------
-Coleman | Group 1 | Group 3 | Group 5 
-Lin | Group 2 | Group 4 | Group 6
+- *Left*: The Vietnamese Community of Eastern New Orleans.
+- *Right*: The Adaption of Vietnamese Youth: An Empirical Example
 
-
-]
-
-.push-right[
-&lt;img src="https://www.educationworld.in/wp-content/uploads/2018/04/gd.jpg" width="80%" style="display: block; margin: auto;" /&gt;
+1. Your favorite piece of evidence of a benefit of Coleman (1988) style social capital.
+2. Find a quote exemplifying: 
+    - Group a): Multiplex networks,
+    - Group b): Network closure,
+    - Group c): Social control,
+    - Group d): Norms.
 ]
 
 ---
 # References
 
 .font80[
+Coleman, J. S. (1988). "Social Capital in the Creation of Human Capital". In: _American Journal of
+Sociology_, pp. S95-S120.
+
 Sampson, R. J., S. W. Raudenbush, and F. Earls (1997). "Neighborhoods and Violent Crime: A Multilevel
 Study of Collective Efficacy". In: _Science_, pp. 918-924.
 ]
